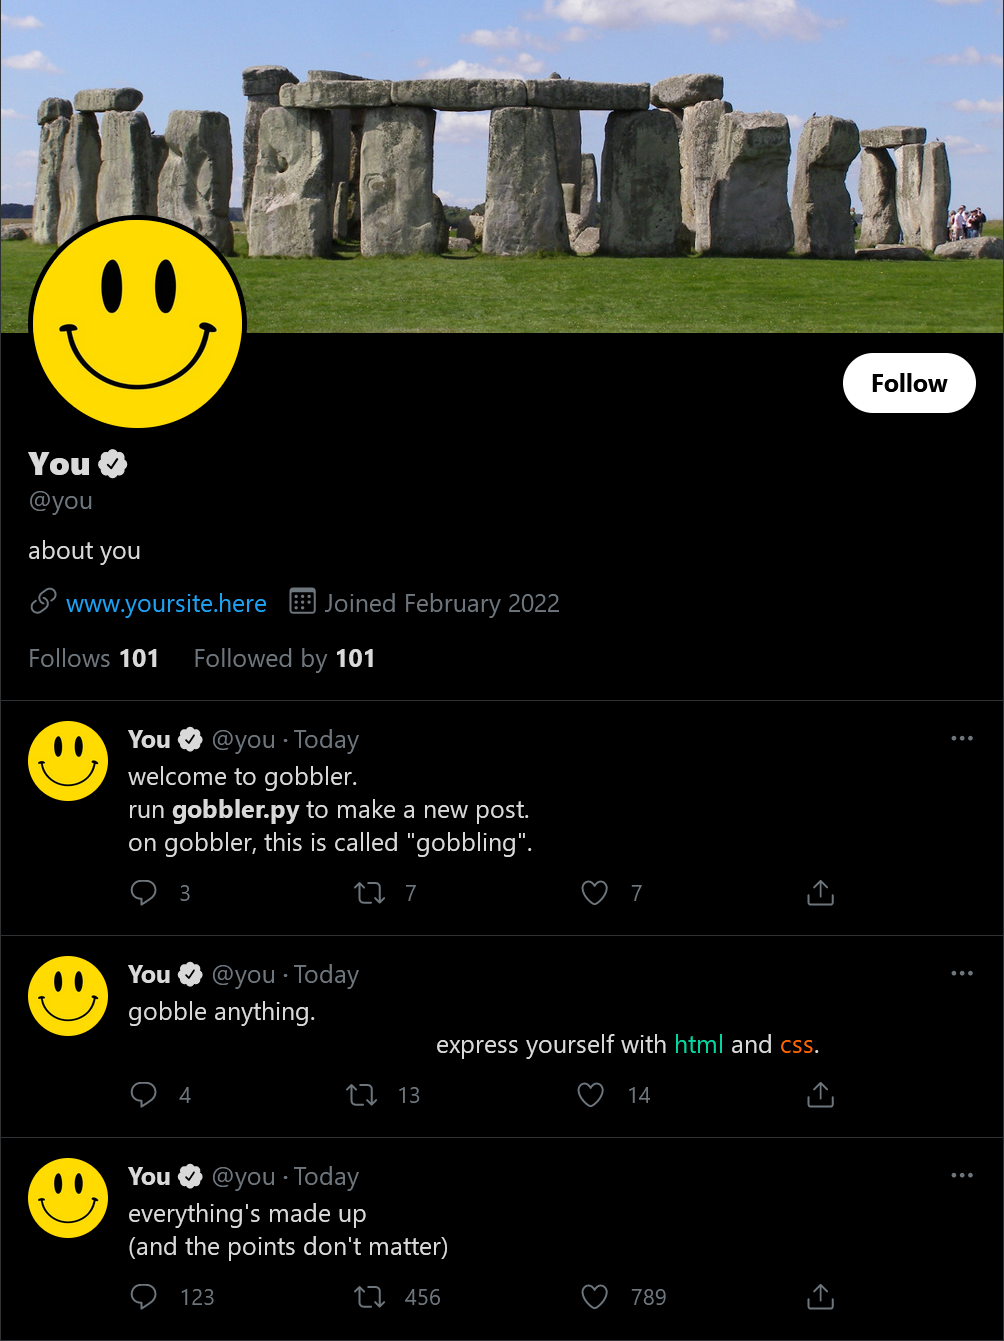
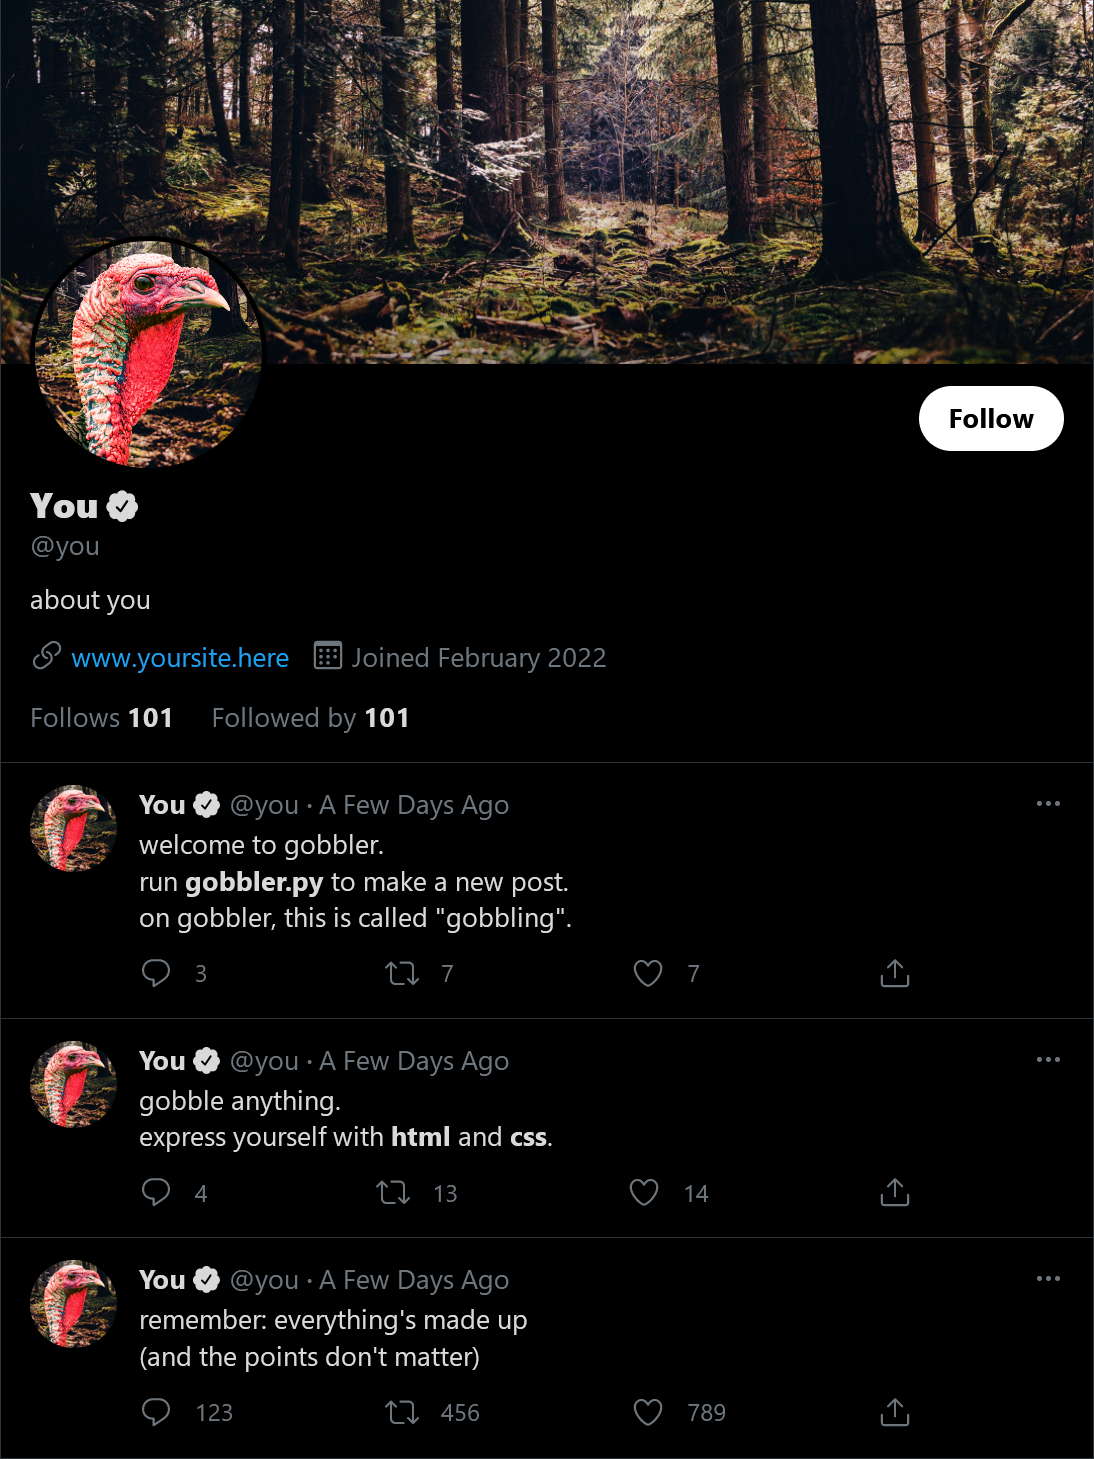
updated images

diff --git a/index.html b/index.html
@@ -90,7 +90,6 @@
 			</div>
 		</div>
 	</template>
-
 	<head>
 		<!-- set page title !-->
 		<title>gobbler</title>
@@ -195,7 +194,7 @@
 						@you
 					</div>
 					<div class="gobble_proto_body">
-						gobble anything.&nbsp<br><marquee>express yourself with <span style="color:#05d5a1;">html</span> and <span style="color:#ff6400">css</span>.</marquee>
+						gobble anything.&nbsp<br>express yourself with <b>html</b> and <b>css</b>.
 					</div>
 					<div class="gobble_proto_date">Sat, 19 Feb 2022 22:21:43 GMT
 					</div>
@@ -212,7 +211,7 @@
 						@you
 					</div>
 					<div class="gobble_proto_body">
-						everything's made up&nbsp<br>(and the points don't matter)
+						remember: everything's made up&nbsp<br>(and the points don't matter)
 					</div>
 					<div class="gobble_proto_date">Sat, 19 Feb 2022 22:21:43 GMT
 					</div>
